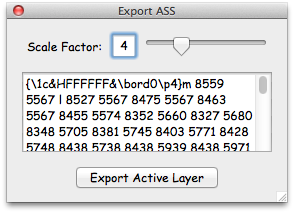
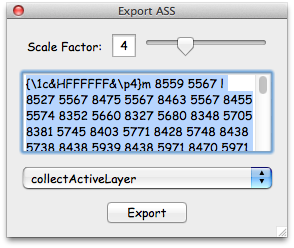
Add more collection methods, reformat to match my current standards.
There is now a drop down menu to choose which collection method to use. The
three that are available are: current layer, inner shadow, and all layers. Inner
shadow is a hacky version of current layer that expects the layer to be
formatted in a very specific manner. How to use it will be added to the readme
soon. The other two do exactly what it sounds like they do.

Also, the box that the exported text is written to is now highlighted to make
copying from it easier. How exciting!

A misplaced alert pop up has been squashed.

I will probably end up eating these words but if I ever have to touch this
scripting API again it will be too soon.

diff --git a/AI2ASS.jsx b/AI2ASS.jsx
@@ -1,6 +1,6 @@
 // Generated by CoffeeScript 1.6.3
 #targetengine session;
-var fuckThis, gobutton, input, label, slider, textCtrl, value, win;
+var collectionMethod, fuckThis, goButton, input, label, slider, textCtrl, value, win;
 
 win = new Window("palette", "Export ASS", void 0, {
   resizeable: true
@@ -18,14 +18,14 @@ value = input.add('edittext {text: 1, characters: 2, justify: "center", active: 
 
 value.graphics.font = "Comic Sans MS:12";
 
+value.onChanging = function() {
+  return slider.value = Number(value.text);
+};
+
 slider = input.add('slider', void 0, 1, 1, 11);
 
 slider.onChanging = function() {
   return value.text = Math.round(slider.value);
-};
-
-value.onChanging = function() {
-  return slider.value = Number(value.text);
 };
 
 textCtrl = win.add("edittext", [0, 0, 250, 80], "", {
@@ -36,17 +36,25 @@ textCtrl.graphics.font = "Comic Sans MS:12";
 
 textCtrl.text = "have ass will travel";
 
-gobutton = win.add("button", void 0, "Export Active Layer");
+collectionMethod = win.add("dropdownlist", [0, 0, 250, 20], ["collectActiveLayer", "collectInnerShadow", "collectAllLayers"]);
 
-gobutton.graphics.font = "Comic Sans MS:12";
+collectionMethod.graphics.font = "Comic Sans MS:12";
 
-gobutton.onClick = function() {
+collectionMethod.selection = 0;
+
+goButton = win.add("button", void 0, "Export");
+
+goButton.graphics.font = "Comic Sans MS:12";
+
+goButton.onClick = function() {
   var bt;
+  textCtrl.active = false;
   bt = new BridgeTalk;
   bt.target = "illustrator";
-  bt.body = "(" + (fuckThis.toString()) + ")(" + value.text + ");";
+  bt.body = "(" + (fuckThis.toString()) + ")({scale:" + value.text + ",method:\"" + collectionMethod.selection.text + "\"});";
   bt.onResult = function(result) {
-    return textCtrl.text = result.body.replace(/\\\\/g, "\\");
+    textCtrl.text = result.body.replace(/\\\\/g, "\\").replace(/\\n/g, "\n");
+    return textCtrl.active = true;
   };
   bt.onError = function(err) {
     return alert("" + err.body + " (" + a.headers["Error-Code"] + ")");
@@ -54,21 +62,18 @@ gobutton.onClick = function() {
   return bt.send();
 };
 
-fuckThis = function(scl) {
-  var checkLinear, collectPaths, cubic, currLayer, doc, drawCom, drawStr, fixCoords, handleGray, handleRGB, linear, manageColor, zeroPad;
+fuckThis = function(options) {
+  var checkLinear, createDrawingFromPoints, cubic, currLayer, doc, drawCom, fixCoords, handleGray, handleRGB, linear, manageColor, methods, scaleFactor, zeroPad;
   app.userInteractionLevel = UserInteractionLevel.DISPLAYALERTS;
   doc = app.activeDocument;
   currLayer = doc.activeLayer;
-  if (doc.documentColorSpace === DocumentColorSpace.CMYK) {
-    alert("your colorspace needs to be RGB if you want colors.");
-  }
-  drawStr = "";
+  scaleFactor = Math.pow(2, options.scale - 1);
   drawCom = 0;
   fixCoords = function(coordArr) {
     var org;
     org = doc.rulerOrigin;
-    coordArr[0] = Math.round((coordArr[0] + org[0]) * Math.pow(2, scl - 1));
-    coordArr[1] = Math.round((doc.height - (org[1] + coordArr[1])) * Math.pow(2, scl - 1));
+    coordArr[0] = Math.round((coordArr[0] + org[0]) * scaleFactor);
+    coordArr[1] = Math.round((doc.height - (org[1] + coordArr[1])) * scaleFactor);
     return coordArr.join(" ");
   };
   checkLinear = function(currPoint, prevPoint) {
@@ -82,37 +87,38 @@ fuckThis = function(scl) {
     drawing = "";
     if (drawCom !== 1) {
       drawCom = 1;
-      drawing = " l";
+      drawing = "l ";
     }
-    return drawing += " " + fixCoords(currPoint.anchor);
+    return drawing += "" + (fixCoords(currPoint.anchor)) + " ";
   };
   cubic = function(currPoint, prevPoint) {
     var drawing;
     drawing = "";
     if (drawCom !== 2) {
       drawCom = 2;
-      drawing = " b";
+      drawing = "b ";
     }
-    return drawing += " " + fixCoords(prevPoint.rightDirection, scl) + " " + fixCoords(currPoint.leftDirection, scl) + " " + fixCoords(currPoint.anchor, scl);
+    return drawing += "" + (fixCoords(prevPoint.rightDirection)) + " " + (fixCoords(currPoint.leftDirection)) + " " + (fixCoords(currPoint.anchor)) + " ";
   };
   zeroPad = function(num) {
     if (num < 16) {
-      return "0" + num.toString(16);
+      return "0" + (num.toString(16));
+    } else {
+      return num.toString(16);
     }
-    return num.toString(16);
   };
   handleGray = function(theColor) {
     var pct;
     pct = theColor.gray;
     pct = Math.round((100 - pct) * 255 / 100);
-    return ("&H" + zeroPad(pct) + zeroPad(pct) + zeroPad(pct) + "&").toUpperCase();
+    return ("&H" + (zeroPad(pct)) + (zeroPad(pct)) + (zeroPad(pct)) + "&").toUpperCase();
   };
   handleRGB = function(theColor) {
     var b, g, r;
     r = Math.round(theColor.red);
     g = Math.round(theColor.green);
     b = Math.round(theColor.blue);
-    return ("&H" + zeroPad(b) + zeroPad(g) + zeroPad(r) + "&").toUpperCase();
+    return ("&H" + (zeroPad(b)) + (zeroPad(g)) + (zeroPad(r)) + "&").toUpperCase();
   };
   manageColor = function(currPath, field, ASSField) {
     var fmt;
@@ -137,42 +143,98 @@ fuckThis = function(scl) {
     }
     return "\\" + ASSField + "c" + fmt;
   };
-  collectPaths = function() {
-    var currPath, currPoint, fgc, j, points, prevPoint, sc, _i, _j, _len, _ref, _ref1;
-    alert("" + doc.pathItems.length);
-    _ref = doc.pathItems;
-    for (_i = 0, _len = _ref.length; _i < _len; _i++) {
-      currPath = _ref[_i];
-      if (currPath.layer.name === currLayer.name) {
-        if (drawStr.length === 0) {
-          fgc = manageColor(currPath, "fillColor", 1);
-          sc = manageColor(currPath, "strokeColor", 3);
-          drawStr = "{" + fgc + sc + "\\p" + scl + "}";
-        }
-        points = currPath.pathPoints;
-        if (points.length > 0) {
-          drawCom = 0;
-          drawStr += "m " + fixCoords(points[0].anchor, scl);
-          for (j = _j = 1, _ref1 = points.length; _j < _ref1; j = _j += 1) {
-            currPoint = points[j];
-            prevPoint = points[j - 1];
-            if (checkLinear(currPoint, prevPoint)) {
-              drawStr += linear(currPoint);
-            } else {
-              drawStr += cubic(currPoint, prevPoint);
-            }
-          }
-          prevPoint = points[points.length - 1];
-          currPoint = points[0];
-          if (!checkLinear(currPoint, prevPoint)) {
-            drawStr += cubic(currPoint, prevPoint);
-          }
+  createDrawingFromPoints = function(pathPoints) {
+    var currPoint, drawStr, j, prevPoint, _i, _ref;
+    drawStr = "";
+    if (pathPoints.length > 0) {
+      drawCom = 0;
+      drawStr += "m " + (fixCoords(pathPoints[0].anchor)) + " ";
+      for (j = _i = 1, _ref = pathPoints.length; _i < _ref; j = _i += 1) {
+        currPoint = pathPoints[j];
+        prevPoint = pathPoints[j - 1];
+        if (checkLinear(currPoint, prevPoint)) {
+          drawStr += linear(currPoint);
+        } else {
+          drawStr += cubic(currPoint, prevPoint);
         }
       }
+      prevPoint = pathPoints[pathPoints.length - 1];
+      currPoint = pathPoints[0];
+      if (!checkLinear(currPoint, prevPoint)) {
+        drawStr += cubic(currPoint, prevPoint);
+      }
+      return drawStr;
     }
-    return drawStr;
+    return "";
   };
-  return collectPaths();
+  methods = {
+    collectActiveLayer: function() {
+      var currPath, fgc, outputStr, sc, _i, _len, _ref;
+      outputStr = "";
+      _ref = doc.pathItems;
+      for (_i = 0, _len = _ref.length; _i < _len; _i++) {
+        currPath = _ref[_i];
+        if (currPath.layer.name === currLayer.name) {
+          if (outputStr.length === 0) {
+            fgc = manageColor(currPath, "fillColor", 1);
+            sc = manageColor(currPath, "strokeColor", 3);
+            outputStr += "{" + fgc + sc + "\\p" + options.scale + "}";
+          }
+          outputStr += createDrawingFromPoints(currPath.pathPoints);
+        }
+      }
+      return outputStr.slice(0, -1);
+    },
+    collectInnerShadow: function() {
+      var currPath, glyphPaths, glyphStr, group, outlinePaths, outlineStr, outputStr, _i, _j, _k, _len, _len1, _len2, _ref;
+      outputStr = "";
+      _ref = currLayer.groupItems[0].groupItems;
+      for (_i = 0, _len = _ref.length; _i < _len; _i++) {
+        group = _ref[_i];
+        outlinePaths = group.compoundPathItems[0].pathItems;
+        outlineStr = "";
+        glyphPaths = group.compoundPathItems[1].pathItems;
+        glyphStr = "";
+        for (_j = 0, _len1 = glyphPaths.length; _j < _len1; _j++) {
+          currPath = glyphPaths[_j];
+          glyphStr += createDrawingFromPoints(currPath.pathPoints);
+        }
+        for (_k = 0, _len2 = outlinePaths.length; _k < _len2; _k++) {
+          currPath = outlinePaths[_k];
+          outlineStr += createDrawingFromPoints(currPath.pathPoints);
+        }
+        outlineStr = "{\\clip(" + options.scale + "," + glyphStr.slice(0, -1) + ")\\p" + options.scale + "}" + outlineStr.slice(0, -1);
+        glyphStr = "{\\p" + options.scale + "}" + glyphStr;
+        outputStr += "" + glyphStr + "\n" + outlineStr.slice(0, -1) + "\n";
+      }
+      return "{innerShadow}\n" + outputStr;
+    },
+    collectAllLayers: function() {
+      var currPath, fgc, key, output, outputStr, overall, sc, val, _i, _len, _ref;
+      output = {};
+      overall = "";
+      _ref = doc.pathItems;
+      for (_i = 0, _len = _ref.length; _i < _len; _i++) {
+        currPath = _ref[_i];
+        outputStr = "";
+        outputStr += createDrawingFromPoints(currPath.pathPoints);
+        if (!output[currPath.layer.name]) {
+          fgc = manageColor(currPath, "fillColor", 1);
+          sc = manageColor(currPath, "strokeColor", 3);
+          outputStr = "{" + fgc + sc + "\\p" + options.scale + "}" + outputStr;
+          output[currPath.layer.name] = outputStr;
+        } else {
+          output[currPath.layer.name] += outputStr;
+        }
+      }
+      for (key in output) {
+        val = output[key];
+        overall += "" + val.slice(0, -1) + "\n";
+      }
+      return "{allLayers}\n" + overall;
+    }
+  };
+  return methods[options.method]();
 };
 
 win.show();
